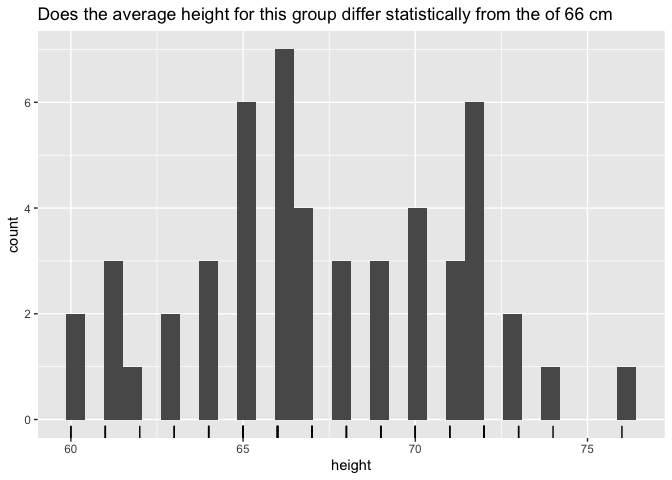
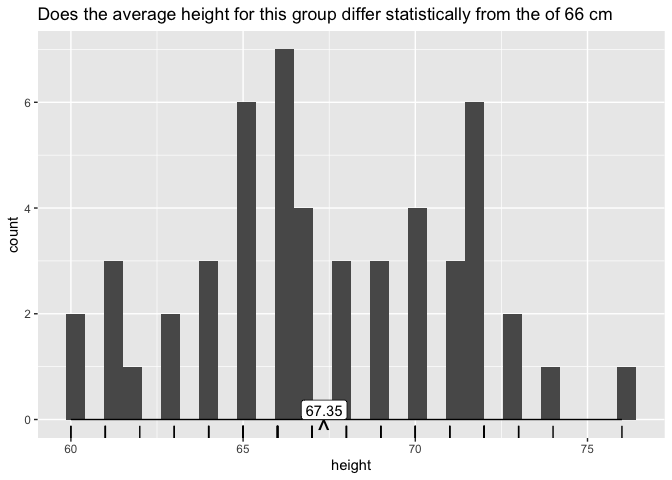
qstat as qstat_group not yet fixed

diff --git a/README.md b/README.md
@@ -243,26 +243,21 @@ coffee_height %>%
   aes(x = height) + 
   geom_rug() + 
   geom_histogram() + 
-  # geom_xrange_group(), show scale, range at y is zero
-  qlayer(stat = qstat_group(compute_scale),
+  # 1. geom_xrange_group(), show scale, range at y is zero
+  qlayer(stat = qstat(compute_scale),
          geom = GeomSegment) + 
-  # geom_xmean() add balancing point
-  qlayer(stat = qstat_group(compute_xmean_at_y0,
+  # 2. geom_xmean() add balancing point
+  qlayer(stat = qstat(compute_xmean_at_y0,
                       default_aes = aes(vjust = after_stat(1),
                                               label = after_stat("^"))),
          geom = qproto_update(GeomText, aes(size = 7))) + 
-  # geom_xmean_label() add numeric label
-  qlayer(stat = qstat_group(compute_xmean_at_y0,
+  # 3. geom_xmean_label() add numeric label
+  qlayer(stat = qstat(compute_xmean_at_y0,
                       default_aes = aes(vjust = after_stat(0),
                                         label = after_stat(round(x, 2)))),
          geom = GeomLabel) + 
   labs(title = "Does the average height for this group differ statistically from the of 66 cm")
 #> `stat_bin()` using `bins = 30`. Pick better value with `binwidth`.
-#> Warning: Computation failed in `stat_temp()`.
-#> Computation failed in `stat_temp()`.
-#> Computation failed in `stat_temp()`.
-#> Caused by error in `compute_group()`:
-#> ! Not implemented.
 ```
 
 <img src="man/figures/README-unnamed-chunk-3-4.png" width="100%" />
@@ -273,16 +268,6 @@ last_plot() +
   facet_wrap(~ coffee, ncol = 1) + 
   labs(title = "Is there a statistically significant difference between the coffee drinkers\n and non-drinkers for this group?")
 #> `stat_bin()` using `bins = 30`. Pick better value with `binwidth`.
-#> Warning: Computation failed in `stat_temp()`.
-#> Caused by error in `compute_group()`:
-#> ! Not implemented.
-#> Warning: Computation failed in `stat_temp()`.
-#> Computation failed in `stat_temp()`.
-#> Computation failed in `stat_temp()`.
-#> Computation failed in `stat_temp()`.
-#> Computation failed in `stat_temp()`.
-#> Caused by error in `compute_group()`:
-#> ! Not implemented.
 ```
 
 <img src="man/figures/README-unnamed-chunk-3-5.png" width="100%" />
@@ -336,3 +321,11 @@ ggplot(palmerpenguins::penguins) +
 ```
 
 <img src="man/figures/README-unnamed-chunk-4-1.png" width="100%" />
+
+``` r
+
+
+
+
+two_way_probs <- tibble()
+```
